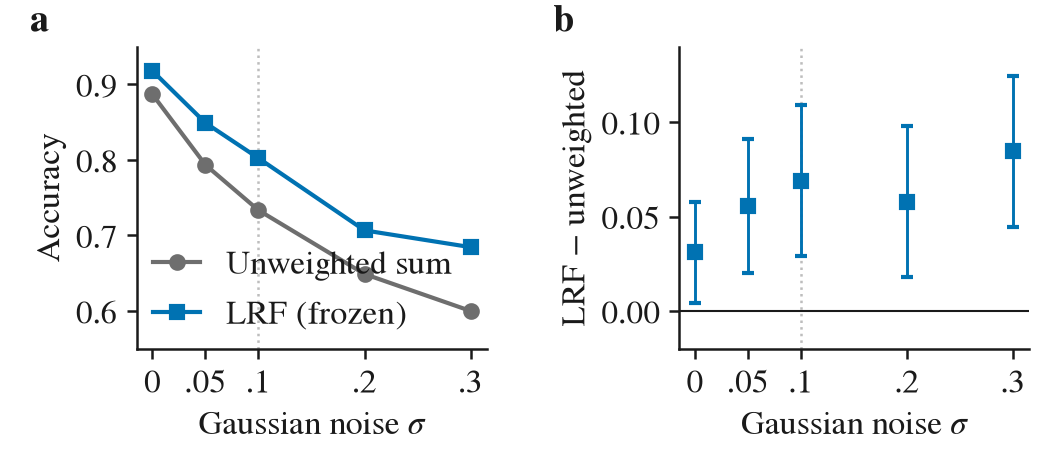
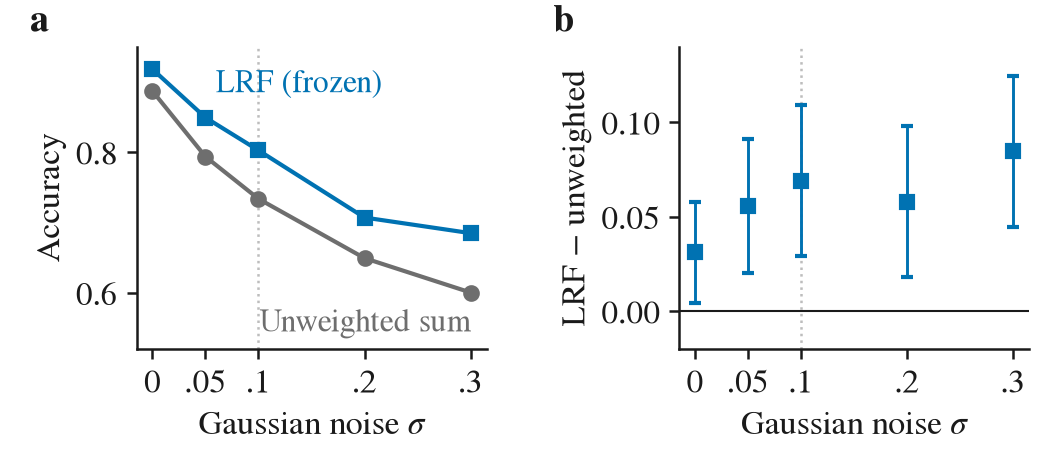
Paper 2: corresponding author changed to Balaji G N (author version, SUBMIT-HERE, portal statements; author order unchanged); Fig. 6 legend replaced by direct labels (the legend overlapped the unweighted-sum line)

diff --git a/paper2-tnnls/main.tex b/paper2-tnnls/main.tex
@@ -91,7 +91,7 @@
   % Authors as in Paper 1 (Shlok, chat 2026-10-30: "Same as paper 1 author details"; Paper 1 release/.zenodo.json and main.tex): D0104.
   \author{Shlok~Goenka, Subramaniyaswamy~Vairavasundaram, and Balaji~G~N%
   \thanks{This work was supported by Vellore Institute of Technology (VIT), Vellore, India.}%
-  \thanks{(Corresponding author: Subramaniyaswamy Vairavasundaram.)}%   Shlok, chat 2026-10-30: "Subramaniyaswamy V"
+  \thanks{(Corresponding author: Balaji G N.)}%   Shlok, chat 2026-10-31: corresponding author changed to Balaji G N (was Subramaniyaswamy Vairavasundaram)
   \thanks{The authors are with the School of Computer Science and Engineering, Vellore Institute of Technology, Vellore 632014, Tamil Nadu,
   India (e-mail: shlok.goenka2023@vitstudent.ac.in; subramaniyaswamy.v@vit.ac.in; balaji.gn@vit.ac.in).}}
   % ORCIDs are entered in the IEEE Author Portal (mandatory for every author); they are not printed in the PDF.

diff --git a/paper2-tnnls/scripts/fig_severity.py b/paper2-tnnls/scripts/fig_severity.py
@@ -32,8 +32,9 @@ a.axvline(0.1, color=C["lgrey"], lw=0.6, ls=":", zorder=0)
 a.set_xlabel(r"Gaussian noise $\sigma$")
 a.set_ylabel("Accuracy")
 a.set_xticks(sig, ["0", ".05", ".1", ".2", ".3"])
-a.set_ylim(0.55, 0.95)
-a.legend(frameon=False, loc="lower left", handlelength=1.4, borderaxespad=0.1)
+a.set_ylim(0.52, 0.95)
+a.text(0.06, lrf[1] + 0.025, "LRF (frozen)", color=C["blue"], ha="left", va="bottom", fontsize=S.FS - 0.5)      # direct labels: no legend box over the lines
+a.text(0.3, none[-1] - 0.022, "Unweighted sum", color=C["grey"], ha="right", va="top", fontsize=S.FS - 0.5)
 S.panel_letter(a, "a", dx=-0.25)
 
 b.axhline(0, color=C["ink"], lw=0.5)

diff --git a/paper2-tnnls/SUBMISSION-PACKAGE/SUBMIT-HERE.md b/paper2-tnnls/SUBMISSION-PACKAGE/SUBMIT-HERE.md
@@ -60,8 +60,8 @@ Word files are not needed at review (TNNLS reviews the PDF); review-copy Word fi
 | # | Name | Affiliation | E-mail | ORCID |
 |---|---|---|---|---|
 | 1 | Shlok Goenka | School of Computer Science and Engineering, Vellore Institute of Technology, Vellore 632014, Tamil Nadu, India | shlok.goenka2023@vitstudent.ac.in | https://orcid.org/0009-0002-8581-5657 |
-| 2 | Subramaniyaswamy Vairavasundaram (**corresponding author**) | same | subramaniyaswamy.v@vit.ac.in | https://orcid.org/0000-0001-5328-7672 |
-| 3 | Balaji G N | same | balaji.gn@vit.ac.in | https://orcid.org/0000-0002-5346-0989 |
+| 2 | Subramaniyaswamy Vairavasundaram | same | subramaniyaswamy.v@vit.ac.in | https://orcid.org/0000-0001-5328-7672 |
+| 3 | Balaji G N (**corresponding author**) | same | balaji.gn@vit.ac.in | https://orcid.org/0000-0002-5346-0989 |
 
   Each co-author may receive a portal e-mail to confirm authorship and link the ORCID; ask them to accept it.
 - **Funding:** This work was supported by Vellore Institute of Technology (VIT), Vellore, India.

diff --git a/paper2-tnnls/PORTAL-STATEMENTS.md b/paper2-tnnls/PORTAL-STATEMENTS.md
@@ -6,7 +6,7 @@ The submission sheet with every portal field, the authors with ORCIDs and the fi
 ## Printed in the paper
 
 - **First footnote (author version only):** "This work was supported by Vellore Institute of Technology (VIT), Vellore, India."
-  "(Corresponding author: Subramaniyaswamy Vairavasundaram.)" "The authors are with the School of Computer Science and Engineering,
+  "(Corresponding author: Balaji G N.)" "The authors are with the School of Computer Science and Engineering,
   Vellore Institute of Technology, Vellore 632014, Tamil Nadu, India (e-mail: shlok.goenka2023@vitstudent.ac.in;
   subramaniyaswamy.v@vit.ac.in; balaji.gn@vit.ac.in)."
 - **Acknowledgment** (IEEE/TNNLS section K puts AI disclosure here; decision D0106):
